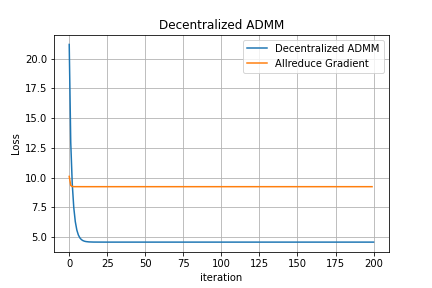
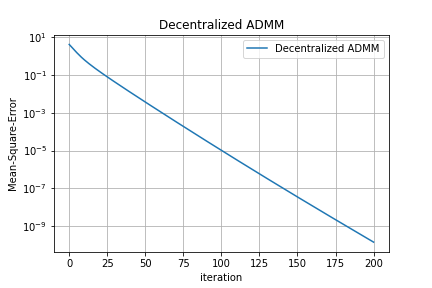
Fix the error in the Decentralized ADMM and format it

Changed region(s): [[0.0, 0.125, 0.9028, 0.8438]]

diff --git a/tutorial/DecentralizedADMM.py b/tutorial/DecentralizedADMM.py
@@ -31,22 +31,19 @@ def GradientL2(A, b, x):
     return A.t().mm(A.mm(x) - b)
 
 
-def ProximalStepL2(A, b, v, n_i, alpha):
-    # x^+ = argmin( 0.5*\|Ax-b\|^2 + \alpha |N_i| /2*\|x-v\|^2)
-    #     = {(find x s.t.) A^t(Ax-b) + \alpha |N_i| v= 0}
-    #     = (A^tA + \alpha I)^{-1} (\alpha |N_i| v)
+def ProximalStepL2(A, b, x, a, v, n_i, alpha):
     m = A.shape[1]
-    AA_inv = (A.t().mm(A) + alpha * n_i * torch.eye(m)).inverse()
-    return AA_inv.mm(A.t().mm(b) + alpha * n_i * v)
+    AA_inv = (A.t().mm(A) + 2 * alpha * n_i * torch.eye(m)).inverse()
+    return AA_inv.mm(A.t().mm(b) + v + alpha * n_i * (x + a))
 
 
 def DecentralizedADMMStepL2(A, b, x, a, v, n_i, alpha):
-    next_x = ProximalStepL2(A, b, v, n_i, alpha)
-    neighbor_weights = {r: 0.5 / n_i for r in bf.in_neighbor_ranks()}
+    next_x = ProximalStepL2(A, b, x, a, v, n_i, alpha)
+    neighbor_weights = {r: 1 / n_i for r in bf.in_neighbor_ranks()}
     next_a = bf.neighbor_allreduce(
-        next_x, self_weight=0.5, neighbor_weights=neighbor_weights
+        next_x, self_weight=0.0, neighbor_weights=neighbor_weights
     )
-    next_v = v + next_a - a
+    next_v = v - alpha * n_i * (next_x - next_a)
     return next_x, next_a, next_v
 
 
@@ -58,17 +55,22 @@ def AllreduceGradient(A, b):
     x = torch.zeros(d, 1).to(torch.double)
     x = bf.broadcast(x, root_rank=0)  # make everyone starts from same point
     mu = 0.01
-    loss_records = []
+    loss_records = [bf.allreduce(LossL2(A, b, x))]
     with torch.no_grad():
-        for i in range(200):
+        for i in range(500):
             global_grad = bf.allreduce(GradientL2(A, b, x))
             x = (x - mu * global_grad).clone()
             loss = bf.allreduce(LossL2(A, b, x))
             loss_records.append(loss)
+    if bf.rank() == 0:
+        print(
+            f"[Decentralized ADMM] Allreduce residue gradient norm: "
+            + f"{torch.norm(global_grad) / len(global_grad)}"
+        )
     return x, loss_records
 
 
-def DecentralizedADMMAlgorithm(A, b):
+def DecentralizedADMMAlgorithm(A, b, x_opt):
     d = A.shape[1]
     x = torch.zeros(d, 1).to(torch.double)
     a = torch.zeros(d, 1).to(torch.double)
@@ -77,19 +79,22 @@ def DecentralizedADMMAlgorithm(A, b):
     n_i = len(bf.in_neighbor_ranks())
 
     loss_records = [bf.allreduce(LossL2(A, b, x))]
+    mse_records = [bf.allreduce(torch.norm(x - x_opt)).item()]
     with torch.no_grad():
         for i in range(200):
             next_x, next_a, next_v = DecentralizedADMMStepL2(A, b, x, a, v, n_i, alpha)
             x, a, v = next_x.clone(), next_a.clone(), next_v.clone()
 
             loss_records.append(bf.allreduce(LossL2(A, b, x)))
+            mse_ = bf.allreduce(torch.norm(x - x_opt))
+            mse_records.append(mse_.item())
 
     global_grad = bf.allreduce(GradientL2(A, b, x))
     print(
-        f"[Decentralized ADMM] Rank {bf.rank()}: ADMM residue gradient norm: " +
-        f"{torch.norm(global_grad) / len(global_grad)}"
+        f"[Decentralized ADMM] Rank {bf.rank()}: ADMM residue gradient norm: "
+        + f"{torch.norm(global_grad) / len(global_grad)}"
     )
-    return x, loss_records
+    return x, loss_records, mse_records
 
 
 if __name__ == "__main__":
@@ -97,20 +102,20 @@ if __name__ == "__main__":
     A, b = generate_data(m=100, d=50)
 
     x_ar, loss_records_ar = AllreduceGradient(A, b)
-    x_admm, loss_records_admm = DecentralizedADMMAlgorithm(A, b)
-    x_admm_ar = bf.allreduce(x_admm)
-    if bf.rank() == 0:
-        sio.savemat('results/DecentralizedADMM.mat', {"admm": loss_records_admm,
-                                                      "ar": loss_records_ar})
-        print(f"Last three entries of x_ar:\n {x_ar[-3:]}")
-        print(f"Last three entries of x_admm:\n {x_admm_ar[-3:]}")
+    x_admm, loss_records_admm, mse_records = DecentralizedADMMAlgorithm(A, b, x_ar)
 
-        plt.plot(loss_records_admm, label="Decentralized ADMM")
-        plt.plot(loss_records_ar, label="Allreduce Gradient")
-        plt.legend()
-        dirname = 'images'
+    if bf.rank() == 0:
+        sio.savemat("results/DecentralizedADMM.mat", {"mse": mse_records})
+        print(f"Last three entries of x_ar:\n {x_ar[-3:]}")
+        print(f"Last three entries of x_admm:\n {x_admm[-3:]}")
+
+        # plt.plot(loss_records_admm, label="Decentralized ADMM")
+        # plt.plot(loss_records_ar, label="Allreduce Gradient")
+        # plt.legend()
+        plt.semilogy(mse_records)
+        dirname = "images"
         if not os.path.exists(dirname):
             os.makedirs(dirname)
-        plt.savefig(os.path.join(dirname, 'decentralized_admm.png'))
+        plt.savefig(os.path.join(dirname, "decentralized_admm.png"))
 
     bf.barrier()

diff --git a/tutorial/CentralizedADMM.py b/tutorial/CentralizedADMM.py
@@ -56,7 +56,7 @@ def AllreduceGradient(A, b):
     x = torch.zeros(d, 1).to(torch.double)
     x = bf.broadcast(x, root_rank=0)  # make everyone starts from same point
     mu = 0.01
-    loss_records = []
+    loss_records = [bf.allreduce(LossL2(A, b, x))]
     with torch.no_grad():
         for i in range(500):  # Use more iterations so assume it is optimal.
             global_grad = bf.allreduce(GradientL2(A, b, x))
@@ -73,20 +73,20 @@ def CentralizedADMMAlgorithm(A, b, x_opt):
     u = torch.zeros(d, 1).to(torch.double)
     alpha = 100
     loss_records = [bf.allreduce(LossL2(A, b, x))]
-    mse_records = [bf.allreduce(torch.norm(x-x_opt)).item()]
+    mse_records = [bf.allreduce(torch.norm(x - x_opt)).item()]
     with torch.no_grad():
         for i in range(100):
             next_x, next_y, next_u = CentralizedADMMStepL2(A, b, x, y, u, alpha)
             x, y, u = next_x.clone(), next_y.clone(), next_u.clone()
 
             loss_records.append(bf.allreduce(LossL2(A, b, y)))
-            mse_ = bf.allreduce(torch.norm(x-x_opt))
+            mse_ = bf.allreduce(torch.norm(x - x_opt))
             mse_records.append(mse_.item())
 
     global_grad = bf.allreduce(GradientL2(A, b, x))
     print(
-        f"[Centralized ADMM] Rank {bf.rank()}: ADMM residue gradient norm: " +
-        f"{torch.norm(global_grad) / len(global_grad)}"
+        f"[Centralized ADMM] Rank {bf.rank()}: ADMM residue gradient norm: "
+        + f"{torch.norm(global_grad) / len(global_grad)}"
     )
     return x, loss_records, np.array(mse_records)
 
@@ -97,10 +97,9 @@ if __name__ == "__main__":
 
     x_ar, loss_records_ar = AllreduceGradient(A, b)
     x_admm, loss_records_admm, mse_records = CentralizedADMMAlgorithm(A, b, x_ar)
-    x_admm_ar = bf.allreduce(x_admm)
     if bf.rank() == 0:
-        sio.savemat('results/CentralizedADMM.mat', {"mse": mse_records})
+        sio.savemat("results/CentralizedADMM.mat", {"mse": mse_records})
         print(f"Last three entries of x_ar:\n {x_ar[-3:]}")
-        print(f"Last three entries of x_admm:\n {x_admm_ar[-3:]}")
+        print(f"Last three entries of x_admm:\n {x_admm[-3:]}")
 
     bf.barrier()
